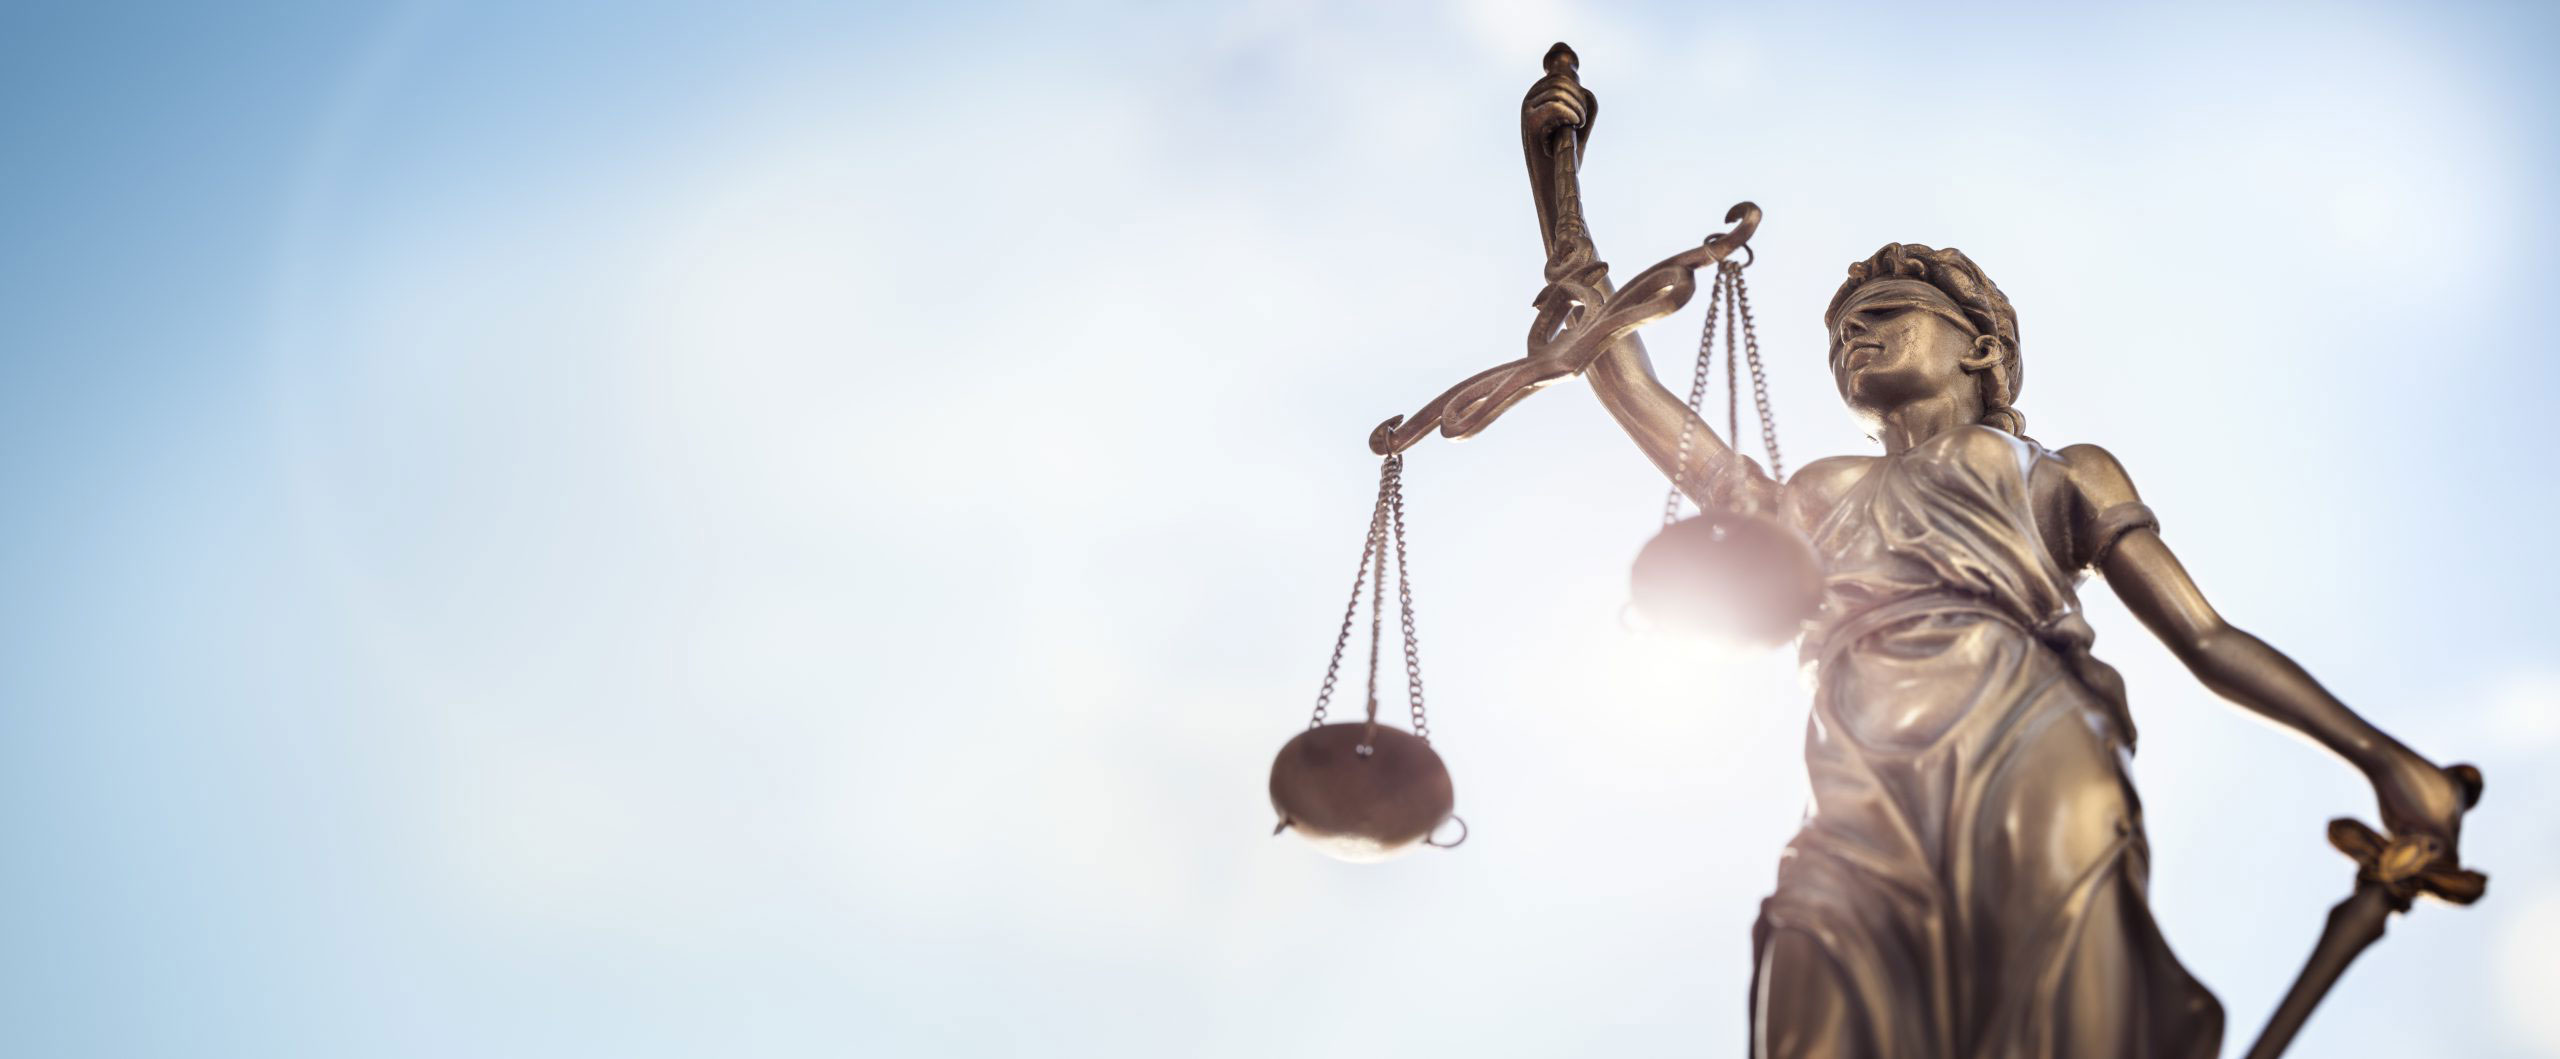
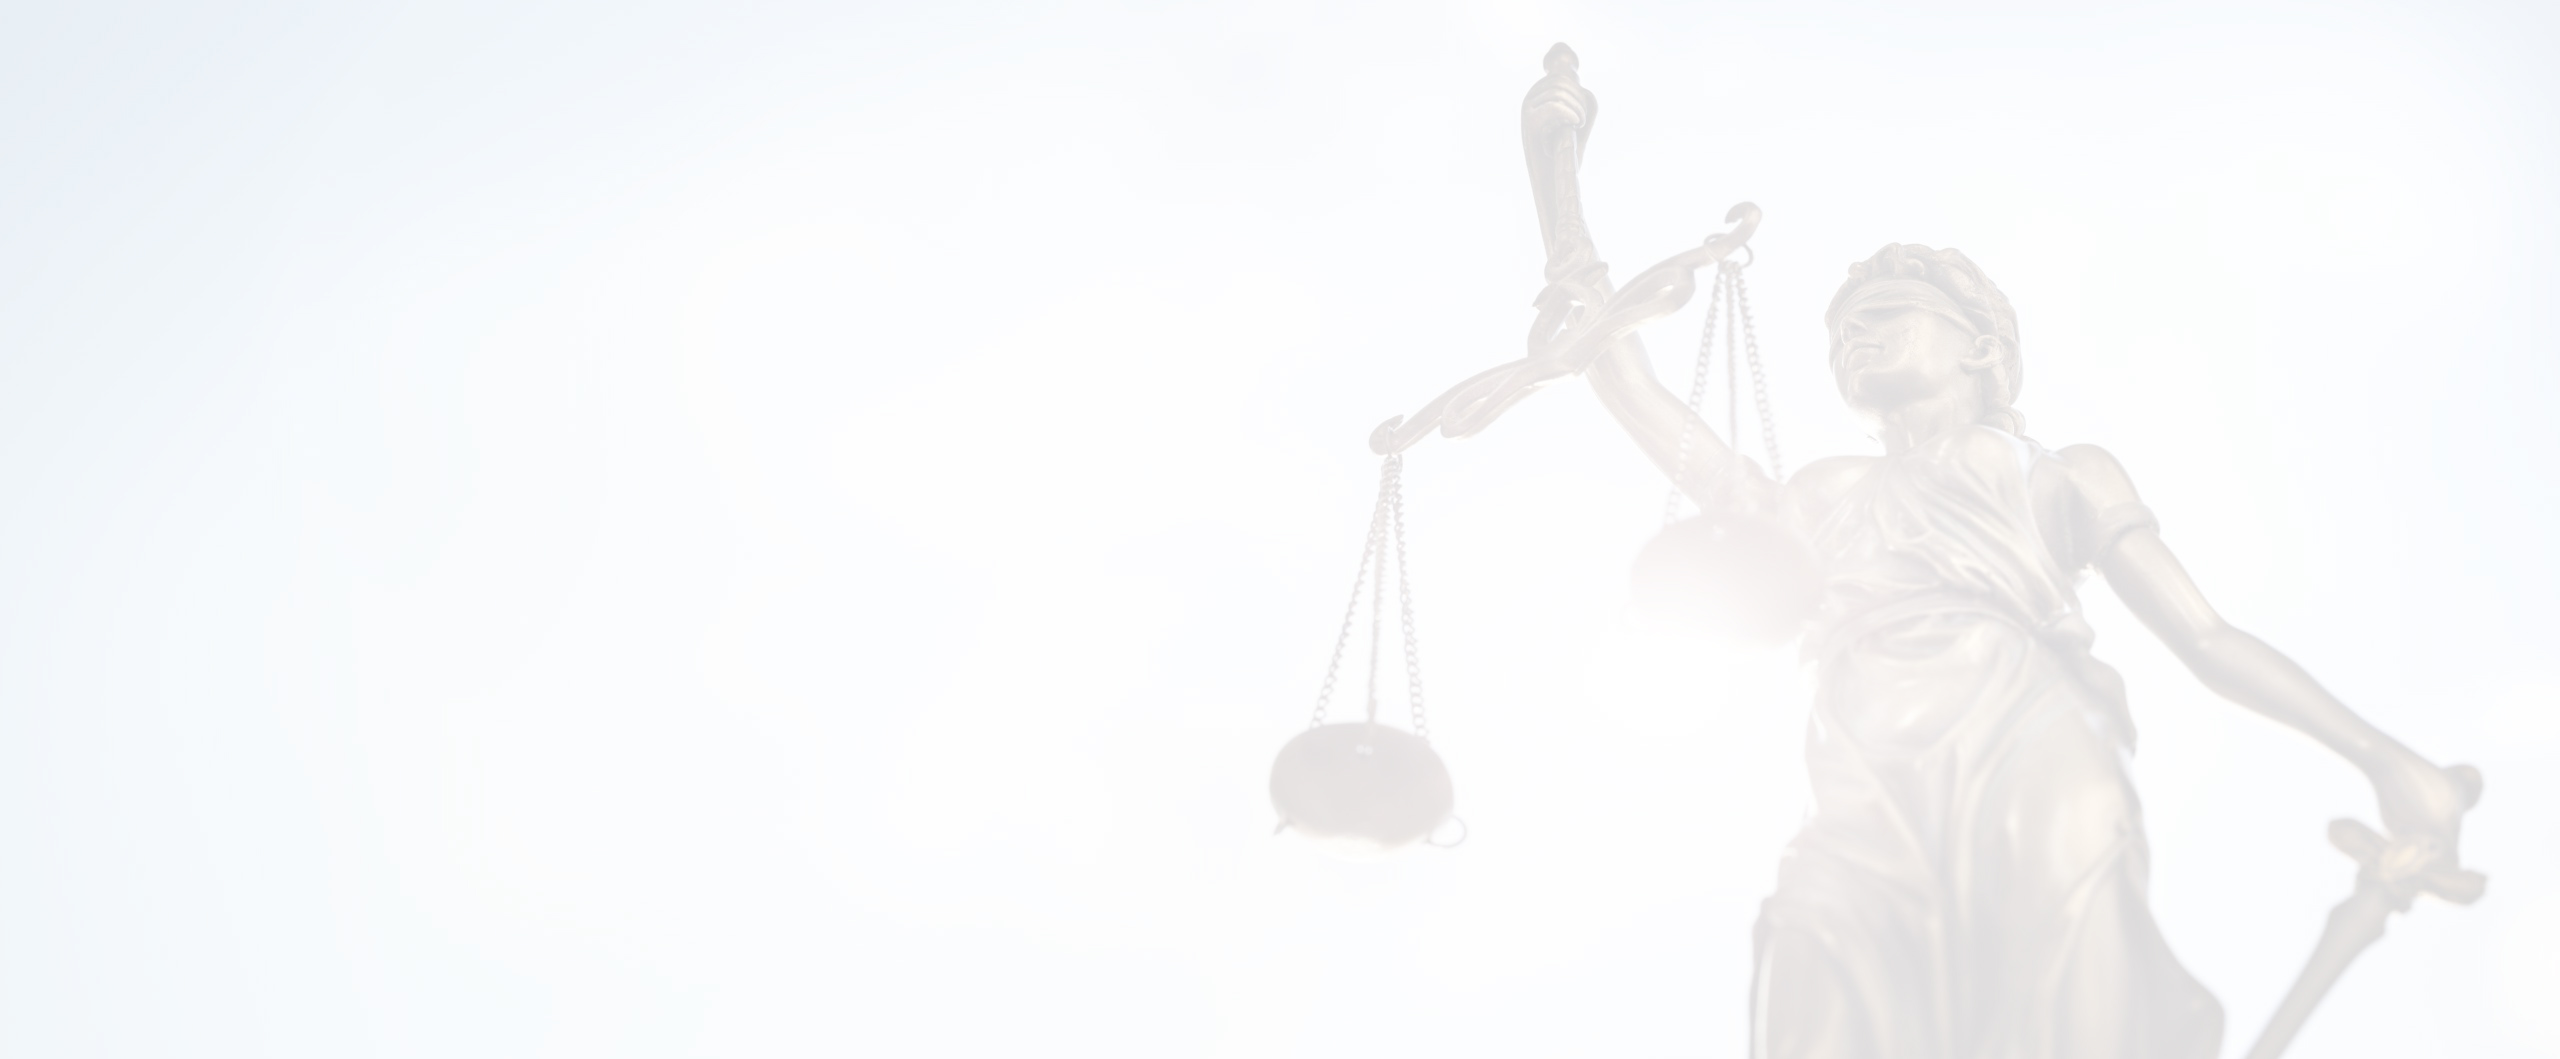
...

diff --git a/index.html b/index.html
@@ -110,7 +110,8 @@
 
   <!-- ======= Hero Section ======= -->
   <section id="hero" class="d-flex align-items-center">
-    <div class="container">
+    <div class="container text-center">
+      <img src="assets/img/banner-img.png" alt="" class="img-fluid">
       <h1>¿Necesita ayuda legal?</h1>
       <h2>Somos una firma de abogados con su mejor interés en mente</h2>
       <a href="tel:17275634888" class="btn-get-started scrollto fw-bold" style="text-transform: uppercase;">Evaluación gratuita</a>

diff --git a/assets/css/style.css b/assets/css/style.css
@@ -482,7 +482,7 @@ h6 {
 --------------------------------------------------------------*/
 #hero {
   width: 100%;
-  height: 70vh;
+  height: 90vh;
   background: url("../img/hero-bg.jpg") top center;
   background-size: cover;
   margin-bottom: -200px;
